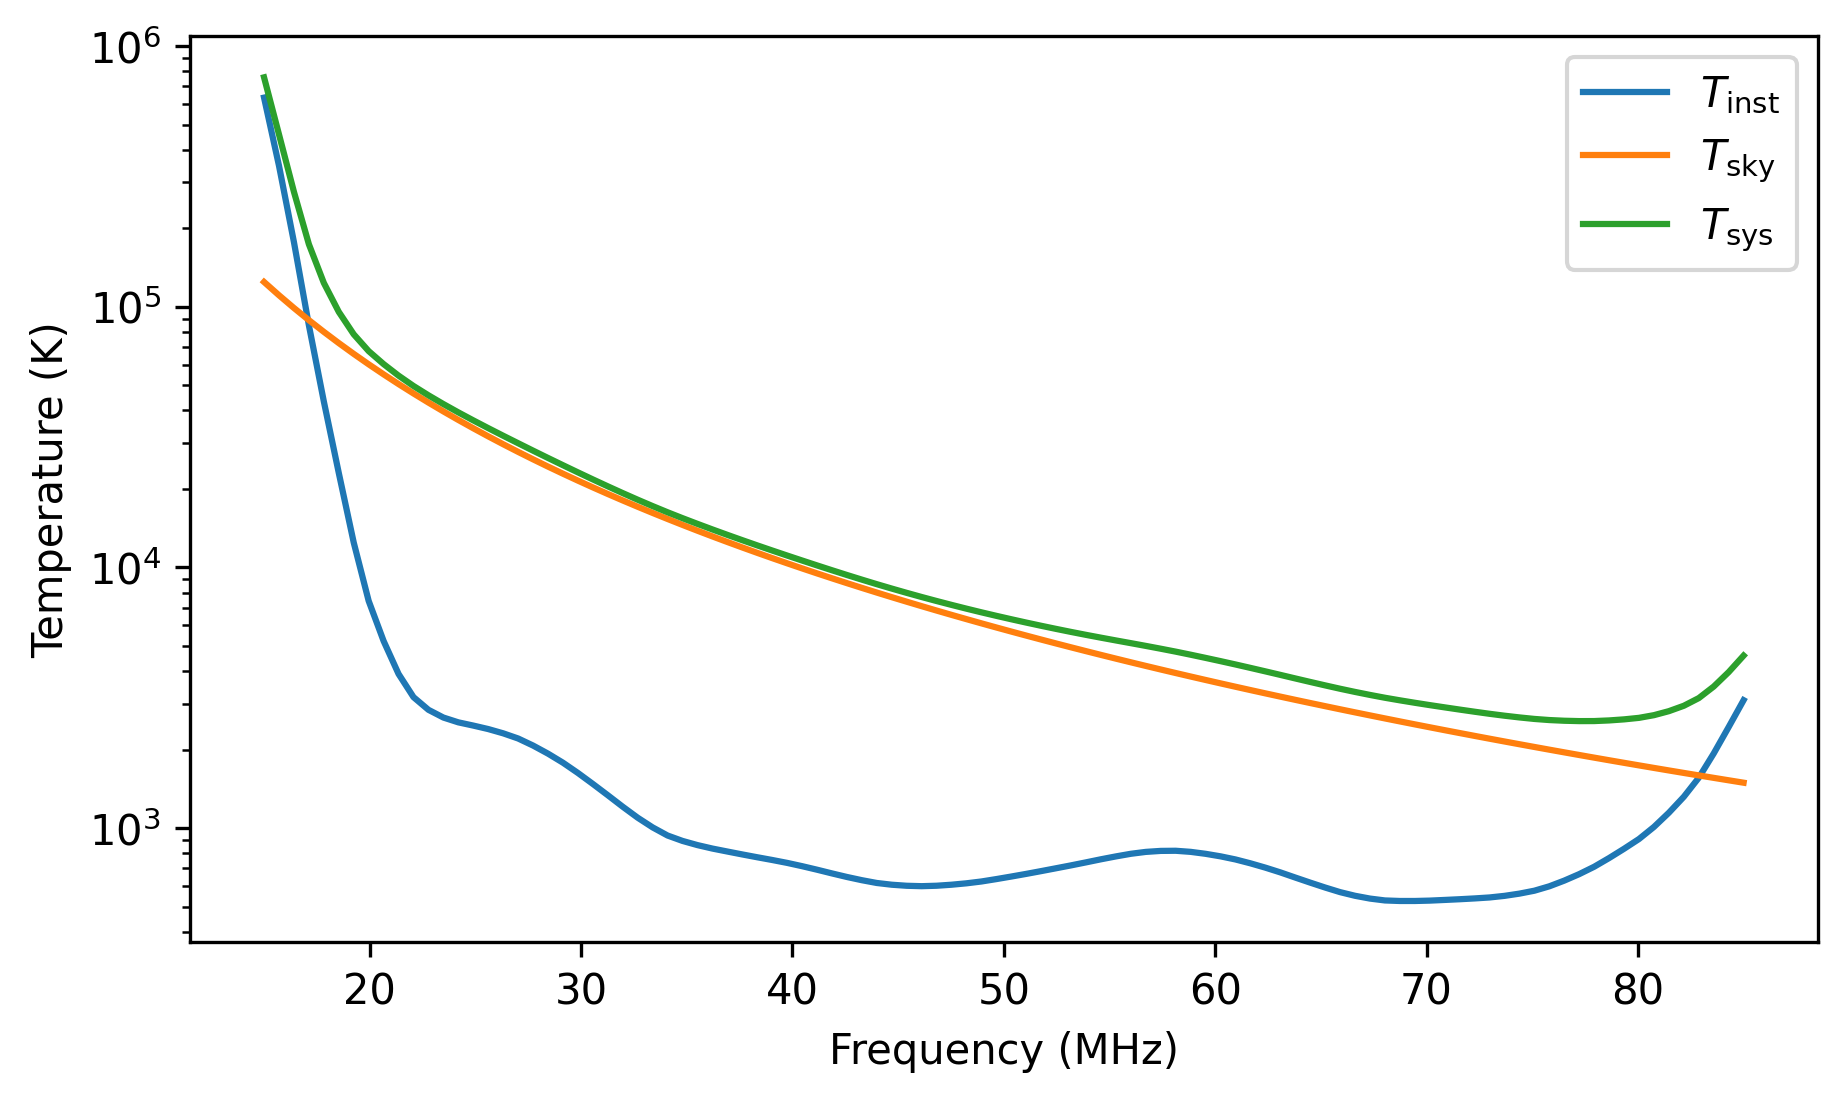
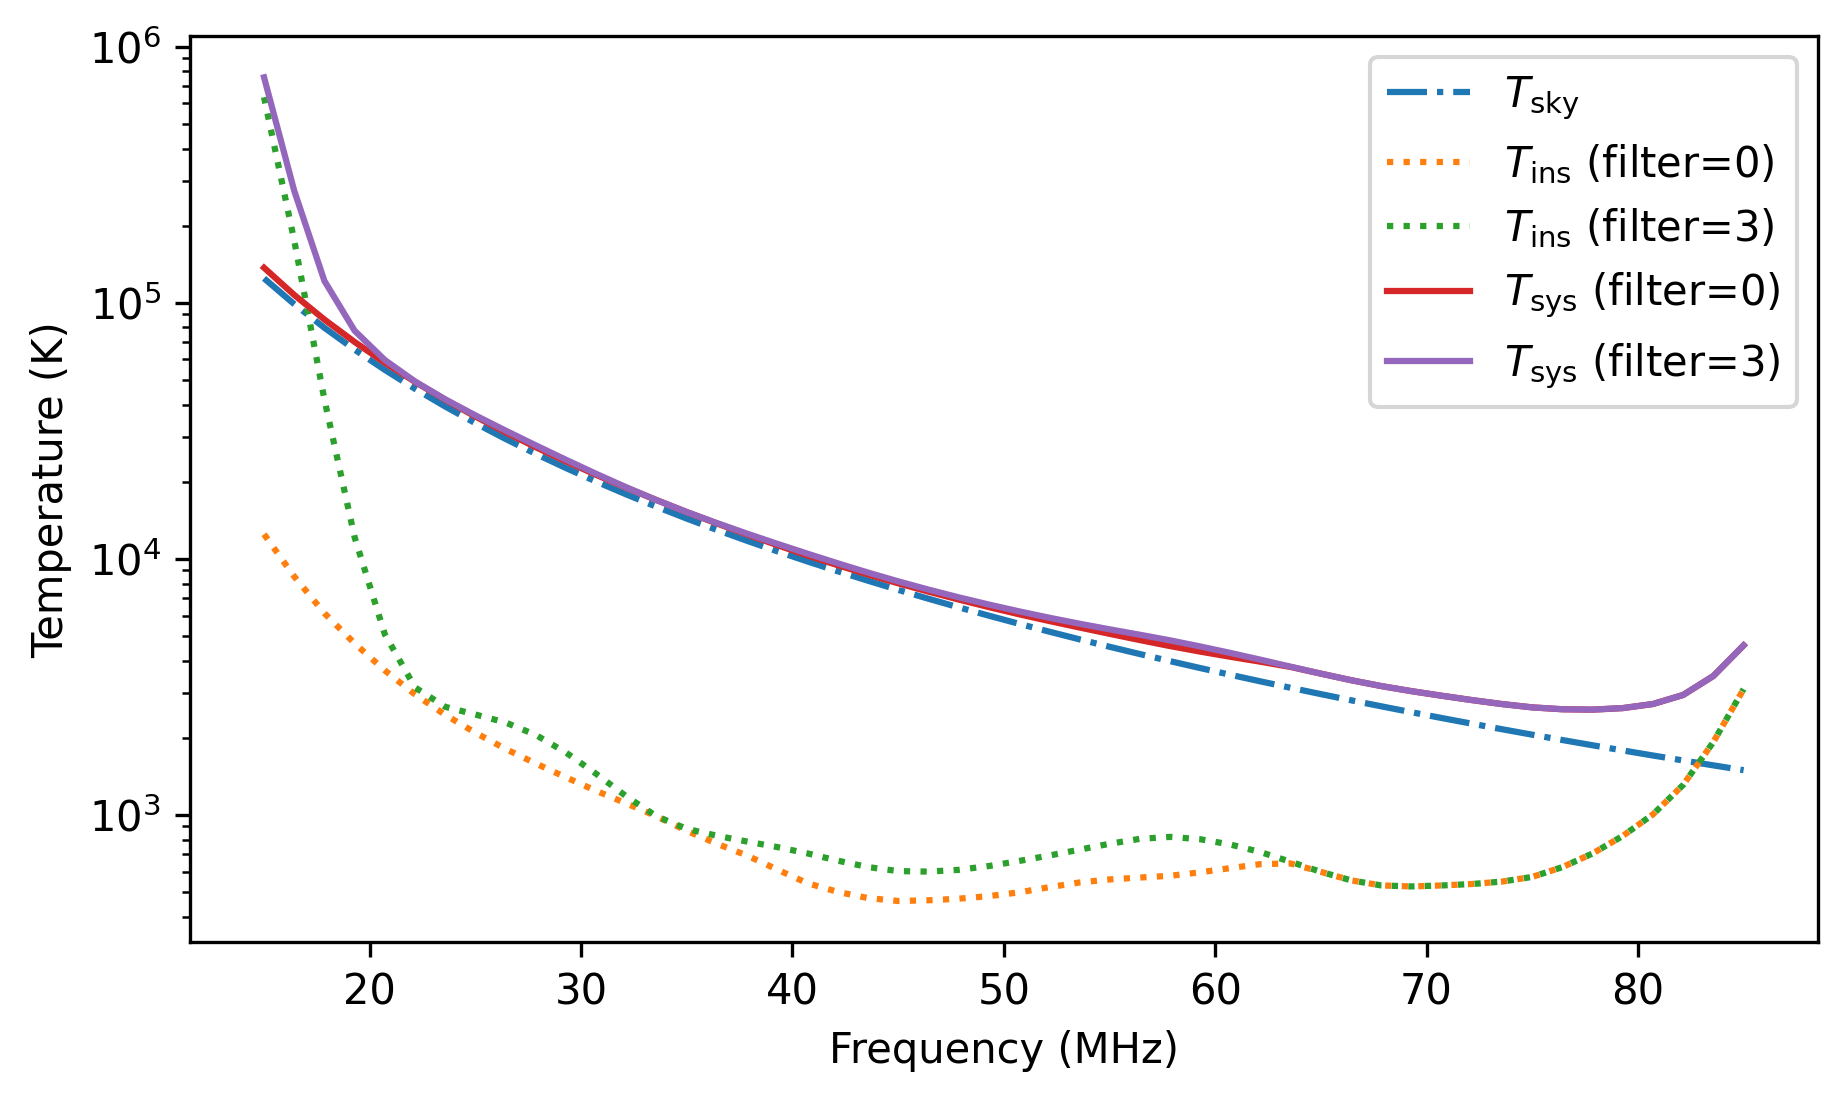
Instrument properties doc finalized

diff --git a/nenupy/instru/interferometer.py b/nenupy/instru/interferometer.py
@@ -614,7 +614,10 @@ class Interferometer(ABC, metaclass=CombinedMeta):
             whose spectrum is defined in the ``source_spectrum`` argument computed as:
 
             .. math::
-                T_{\rm src} = \frac{F_{src} \eta A_{\rm eff}}{2 k_{\rm B}}
+                T_{\rm src} = \frac{F_{\rm src} \eta A_{\rm eff}}{2 k_{\rm B}}
+            
+            where :math:`F_{\rm src}` is the source spectrum, :math:`\eta` is the
+            ``efficiency`` of the effective area :math:`A_{\rm eff}}`.
 
             :param frequency: 
                 Frequency for the System Temperature computation.
@@ -630,11 +633,13 @@ class Interferometer(ABC, metaclass=CombinedMeta):
                 Effective area reducing factor. Default is ``1.``, it cannot be greater than ``1.``.
             :type efficiency:
                 `float`
-            :param decoherence:
-                Parameter that reflects other uncertainties (particularly the unperfect phasing system).
-                Default is ``1.``.
-            :type decoherence:
-                `float`
+            :param source_spectrum:
+                By default the system temperature is evaluated using a mean Galactic temperature.
+                However, if a bright source is targeted, the noise introduced can be under-estimated.
+                Therefore, one can provide a `callable` object that takes as inputs a frequency array (of type :class:`~astropy.units.Quantity`) and
+                returns the source flux density in Jansky (of type :class:`~astropy.units.Quantity`).
+            :type source_spectrum:
+                `dict` of `callable`
 
             :returns:
                 System Temperature in Kelvins.
@@ -668,7 +673,7 @@ class Interferometer(ABC, metaclass=CombinedMeta):
             .. math::
                 S_{\rm sys} = \xi \frac{2 k_{\rm B}}{ \eta A_{\rm eff}(\nu, \theta)} T_{\rm sys} (\nu)
             
-            with :math:`T_{\rm sys}` the :meth:`~nenupy.instru.interferometer.system_temperature`,
+            with :math:`T_{\rm sys}` the :meth:`~nenupy.instru.interferometer.Interferometer.system_temperature`,
             the efficiency :math:`\eta`, :math:`\nu` the frequency, :math:`\theta` the elevation,
             :math:`\xi` the decoherence factor, and :math:`k_{\rm B}` the
             Boltzmann constant.
@@ -707,7 +712,7 @@ class Interferometer(ABC, metaclass=CombinedMeta):
                 :class:`~astropy.units.Quantity`
         
             .. seealso::
-                `LOFAR website <http://old.astron.nl/radio-observatory/astronomers/lofar-imaging-capabilities-sensitivity/sensitivity-lofar-array/sensiti>`_, 
+                `LOFAR website <http://old.astron.nl/radio-observatory/astronomers/lofar-imaging-capabilities-sensitivity/sensitivity-lofar-array/sensiti>`_, :meth:`nenupy.instru.interferometer.Interferometer.system_temperature`
 
         """
         effective_area = self.effective_area(frequency, elevation)
@@ -888,8 +893,15 @@ class Interferometer(ABC, metaclass=CombinedMeta):
                 0.2 \left( \frac{\nu}{\rm GHz} \right)^{-0.7} 
                 \left( \frac{\theta}{\rm arcmin} \right)^{2}
             
+            or (if ``lofar=True``):
+            
+            .. math::
+                \left( \frac{\sigma_{\rm c}}{\mu\rm{Jy}\, \rm{beam}^{-1}} \right) \simeq
+                30 \left( \frac{\nu}{74 {\rm MHz}} \right)^{-0.7} 
+                \left( \frac{\theta}{\rm arcsec} \right)^{1.54}
+            
             where :math:`\nu` is the frequency and :math:`\theta` is
-            the radiotelescope FWHM.
+            the radiotelescope FWHM (see :meth:`~nenupy.instru.interferometer.Interferometer.angular_resolution`).
             
             Individual sources fainter than about 
             :math:`5\sigma_{\rm c}` cannot be detected reliably.
@@ -902,17 +914,22 @@ class Interferometer(ABC, metaclass=CombinedMeta):
                 Mini-Array indices to take into account.
                 Default is ``None`` (all available MAs).
             :type miniarrays: `int`, `list` or :class:`~numpy.ndarray`
+            :param lofar:
+                If set to ``True`` (recommended), the confusion noise
+                is estimated using Eq. 6 of `van Haarlem et al. (2013) <https://arxiv.org/pdf/1305.3550.pdf>`_.
+            :type:
+                `bool`
 
-            :returns: Confusion rms noise in mJy/beam
-            :rtype: :class:`~astropy.units.Quantity`
+            :returns:
+                Confusion rms noise in Jy/beam
+            :rtype:
+                :class:`~astropy.units.Quantity`
 
             :Example:
-                >>> from nenupy.instru import confusion_noise
-                >>> confusion_noise(
-                        freq=50,
-                        miniarrays=None
+                >>> import astropy.units as u
+                >>> <instrument>.confusion_noise(
+                        frequency=50*u.MHz
                     )
-                4663.202 mJy
 
             .. see also::
                 `NRAO lecture <https://www.cv.nrao.edu/course/astr534/Radiometers.html>`_ (eq. 3E6),
@@ -922,12 +939,16 @@ class Interferometer(ABC, metaclass=CombinedMeta):
         if lofar: # https://arxiv.org/pdf/1305.3550.pdf
             freq_at_74mHz = (frequency.to(u.MHz)/(74*u.MHz)).value
             res_in_asec = resolution.to(u.arcsec).value
-            conf_in_mjy = 30 * res_in_asec**1.54 * freq_at_74mHz**(-0.7) * u.uJy
+            conf = 30 * res_in_asec**1.54 * freq_at_74mHz**(-0.7) * u.uJy
         else:
+            # freq_in_ghz = frequency.to(u.GHz).value
+            # res_in_asec = resolution.to(u.arcsec).value
+            # conf = 1.2 * (freq_in_ghz/3.02)**(-0.7) * (res_in_asec/8)**(10/3) * u.uJy # condon 2012
             freq_in_ghz = frequency.to(u.GHz).value
             res_in_amin = resolution.to(u.arcmin).value
-            conf_in_mjy = 0.2 * freq_in_ghz**(-0.7) * res_in_amin**2 * u.mJy # Condon 2002
-        return conf_in_mjy.to(u.Jy) # Jy/beam
+            conf = 0.2 * freq_in_ghz**(-0.7) * res_in_amin**2 * u.mJy # Condon 2002
+
+        return conf.to(u.Jy) # Jy/beam
 
 
     # --------------------------------------------------------- #

diff --git a/docs/instru/instrument_properties.rst b/docs/instru/instrument_properties.rst
@@ -158,7 +158,13 @@ Noise and sensitivity
 Instrument temperature
 ^^^^^^^^^^^^^^^^^^^^^^
 
+NenuFAR instrument temperature can be computed thanks to the :func:`~nenupy.instru.instrument_tools.instrument_temperature` function.
+The values come from observation measurements and depend on the bandwidth high-pass filter applied.
+
+Below, is computed the instrument temperature for the two available filters (namely ``0`` and ``3`` which correspond to 'no filter' and '25 MHz high-pass filter').
+
 .. code-block:: python
+    :emphasize-lines: 3,4
 
     >>> from nenupy.instru import instrument_temperature
     >>> frequencies = np.linspace(15, 85, 50)*u.MHz
@@ -166,38 +172,69 @@ Instrument temperature
     >>> t_ins_25mhz_filter = instrument_temperature(frequency=frequencies, lna_filter=3)    
     >>> plt.plot(frequencies, t_ins_no_filter, label="No filter")
     >>> plt.plot(frequencies, t_ins_25mhz_filter, label="25 MHz filter")
-    >>> plt.legend()
-    >>> plt.yscale("log")
-    >>> plt.ylim(0, 1e5)
-    >>> plt.ylabel(r"$T_{\rm ins}$ (K)")
-    >>> plt.xlabel("Frequency (MHz)")
 
 
 .. figure:: ../_images/instru_images/instrument_temperature.png
     :width: 450
     :align: center
 
-    NenuFAR instrument temperature.
+    NenuFAR instrument temperature computed for the two available filters.
+
+.. note::
+
+    All the methods involving th computation of :func:`~nenupy.instru.instrument_tools.instrument_temperature` do accept ``lna_filter`` as argument.
+    This is true for :meth:`~nenupy.instru.interferometer.Interferometer.system_temperature`, :meth:`~nenupy.instru.interferometer.Interferometer.sefd` and :meth:`~nenupy.instru.interferometer.Interferometer.sensitivity`.
 
 
 
 System temperature
 ^^^^^^^^^^^^^^^^^^
 
-The *system temperature* represents the added noise of the system, which is a combination of many contributions.
+The *system temperature* represents the added noise of the system, which is a combination of several contributions.
 The :meth:`~nenupy.instru.interferometer.Interferometer.system_temperature` does simply consider the instrument and the sky temperatures, the latter being dominated by the Galactic emission at NenuFAR frequencies.
 
+.. code-block:: python
+
+    >>> from nenupy.astro import sky_temperature
+    >>> ma = MiniArray()
+    >>> frequencies = np.linspace(15, 85, 50)*u.MHz
+    >>> t_sys_0 = ma.system_temperature(frequency=frequencies, lna_filter=0)
+    >>> t_ins_0 = ma.instrument_temperature(frequency=frequencies, lna_filter=0)
+    >>> t_sys_3 = ma.system_temperature(frequency=frequencies, lna_filter=3)
+    >>> t_ins_3 = ma.instrument_temperature(frequency=frequencies, lna_filter=3)
+    >>> t_sky = sky_temperature(frequency=frequencies)
 
 
 .. figure:: ../_images/instru_images/ma_temp.png
     :width: 450
     :align: center
 
-    Blabla.
+    Sky temperature (:math:`T_{\rm sky}`), instrument temperature (:math:`T_{\rm ins}`, for both filters) and the resulting system temperature (:math:`T_{\rm sys} = T_{\rm sky} + T_{\rm ins}`).
 
 
 System equivalent flux density
 ^^^^^^^^^^^^^^^^^^^^^^^^^^^^^^
+
+The System Equivalent Flux Density (or SEFD), is defined as the flux density (in Jy) of a radio source that doubles the system temperature.
+
+
+.. code-block:: python
+
+    >>> ma = MiniArray()
+    >>> frequencies = np.linspace(15, 85, 50)*u.MHz
+    >>> sefd_90_0 = ma.sefd(frequency=frequencies, elevation=90*u.deg, lna_filter=0)
+    >>> sefd_60_0 = ma.sefd(frequency=frequencies, elevation=60*u.deg, lna_filter=0)
+    >>> sefd_30_0 = ma.sefd(frequency=frequencies, elevation=30*u.deg, lna_filter=0)
+    >>> sefd_90_3 = ma.sefd(frequency=frequencies, elevation=90*u.deg, lna_filter=3)
+    >>> sefd_60_3 = ma.sefd(frequency=frequencies, elevation=60*u.deg, lna_filter=3)
+    >>> sefd_30_3 = ma.sefd(frequency=frequencies, elevation=30*u.deg, lna_filter=3)
+
+.. figure:: ../_images/instru_images/sefd.png
+    :width: 450
+    :align: center
+
+    Mini-Array SEFD for different elevations :math:`\phi` and filters.
+
 
 Sensitivity
 ^^^^^^^^^^^
@@ -217,10 +254,12 @@ This precision is added thanks to :class:`~nenupy.instru.interferometer.Observin
     >>>     mode=ObservingMode.BEAMFORMING,
     >>>     dt=3600*u.s,
     >>>     df=25*u.MHz,
-    >>>     elevation=70*u.deg
+    >>>     elevation=70*u.deg,
+    >>>     efficiency=1.,
+    >>>     decoherence=1.,
+    >>>     lna_filter=0
     >>> )
-    0.34524316 Jy
-
+    0.19055667 Jy
 
 .. warning::
 
@@ -228,7 +267,11 @@ This precision is added thanks to :class:`~nenupy.instru.interferometer.Observin
     However, this may not be a valid statement while a bright source is directly observed (such as A-team members).   
     This would yield to unaccurate noise estimations.
 
-Below `De Gasperin et al. (2020) <https://arxiv.org/pdf/2002.10431.pdf>`_
+In order to derive more precise noise estimation in the case of a pointing towards a bright source, it is mandatory to fill in the ``source_spectrum`` argument of :meth:`~nenupy.instru.interferometer.Interferometer.sensitivity`.
+This argument requires a `callable` object that takes as input ``frequency`` (of type :class:`astropy.units.Quantity`) and returns the spectrum of the target source in Janskys (also of type :class:`astropy.units.Quantity`).
+
+As an example, we define such a function based on `De Gasperin et al. (2020) <https://arxiv.org/pdf/2002.10431.pdf>`_ which returns the spectrum of the A-team source Cas A with respect to ``frequency``.
+The ``0.7`` factor has been added to better fit the UTR-2 measurements at low frequency.
 
 .. code-block:: python
 
@@ -241,6 +284,9 @@ Below `De Gasperin et al. (2020) <https://arxiv.org/pdf/2002.10431.pdf>`_
     >>>     log_nu = np.log10(frequency.to(u.GHz).value)
     >>>     return 0.7 * np.power(10, (a0 + a1*log_nu + a2*log_nu**2 + a3*log_nu**3) )*u.Jy
 
+Then a :class:`~nenupy.instru.nenufar.NenuFAR` instance is created, for which the array only contains 56 Mini-Arrays (see :ref:`array_configuration_doc`).
+The sensitivity is computed while filling in the configuration of an observation made by the `NenuFAR 'Science Key Program' <https://nenufar.obs-nancay.fr/en/astronomer/#news>`_ ES10 ('Radio recombination lines').
+The function describing this particular observation target spectrum, previously defined, is also inserted.
 
 .. code-block:: python
 
@@ -256,19 +302,35 @@ Below `De Gasperin et al. (2020) <https://arxiv.org/pdf/2002.10431.pdf>`_
     >>>     source_spectrum={"Cas A": casa_spectrum}
     >>> )
 
+The following figure shows the result of the theoretical sensitivity ``rms`` (evaluated with or without the incorporation of Cas A spectrum).
+It is plotted against on-sky measurements of ES10.
+The addition of Cas A spectrum does provide a more realistic noise estimation.
+
 .. figure:: ../_images/instru_images/casa_rms.png
     :width: 450
     :align: center
 
-    Blabla.
+    Theoretical sensitivity of NenuFAR (orange and green curves).
+    Noise measurement (blue curve, courtesy of ES10 'Radio recombination lines' team).
 
 
 Confusion noise
 ^^^^^^^^^^^^^^^
 
+The confusion noise can be directly evaluated using the method :meth:`~nenupy.instru.interferometer.Interferometer.confusion_noise`:
 
 .. code-block:: python
 
-    >>> from nenupy.instru.nenufar import NenuFAR
-    >>> nenufar = NenuFAR()
+    >>> frequencies = np.linspace(15, 85, 30)*u.MHz
+    >>> nenufar_core = NenuFAR()
+    >>> nenufar_core_distant = NenuFAR(include_remote_mas=True)
+    >>> nc_core = nenufar_core.confusion_noise(frequency=frequencies)
+    >>> nc_core_distant = nenufar_core_distant.confusion_noise(frequency=frequencies)
+
+
+.. figure:: ../_images/instru_images/confusion.png
+    :width: 450
+    :align: center
+
+    Confusion noise evaluated for NenuFAR, considering either the core Mini-Arrays only (blue curve) or the core and the distant Mini-Arrays (orange dashed curve). 
 

diff --git a/docs/instru/array_configuration.rst b/docs/instru/array_configuration.rst
@@ -180,7 +180,7 @@ This operation allows for four different types of input:
 Array combinations
 ^^^^^^^^^^^^^^^^^^
 
-Array combinations may be useful in some specific cases, or to ease the manipulation of :class:`~nenupy.instru.interferometer.Inteferometer` objects while programming.
+Array combinations may be useful in some specific cases, or to ease the manipulation of :class:`~nenupy.instru.interferometer.Interferometer` objects while programming.
 
 Two :class:`~nenupy.instru.interferometer.Interferometer` instances are merged with the use of ``+`` operator.
 This operation takes care of duplicated elements belong to both of the summed instances. 
